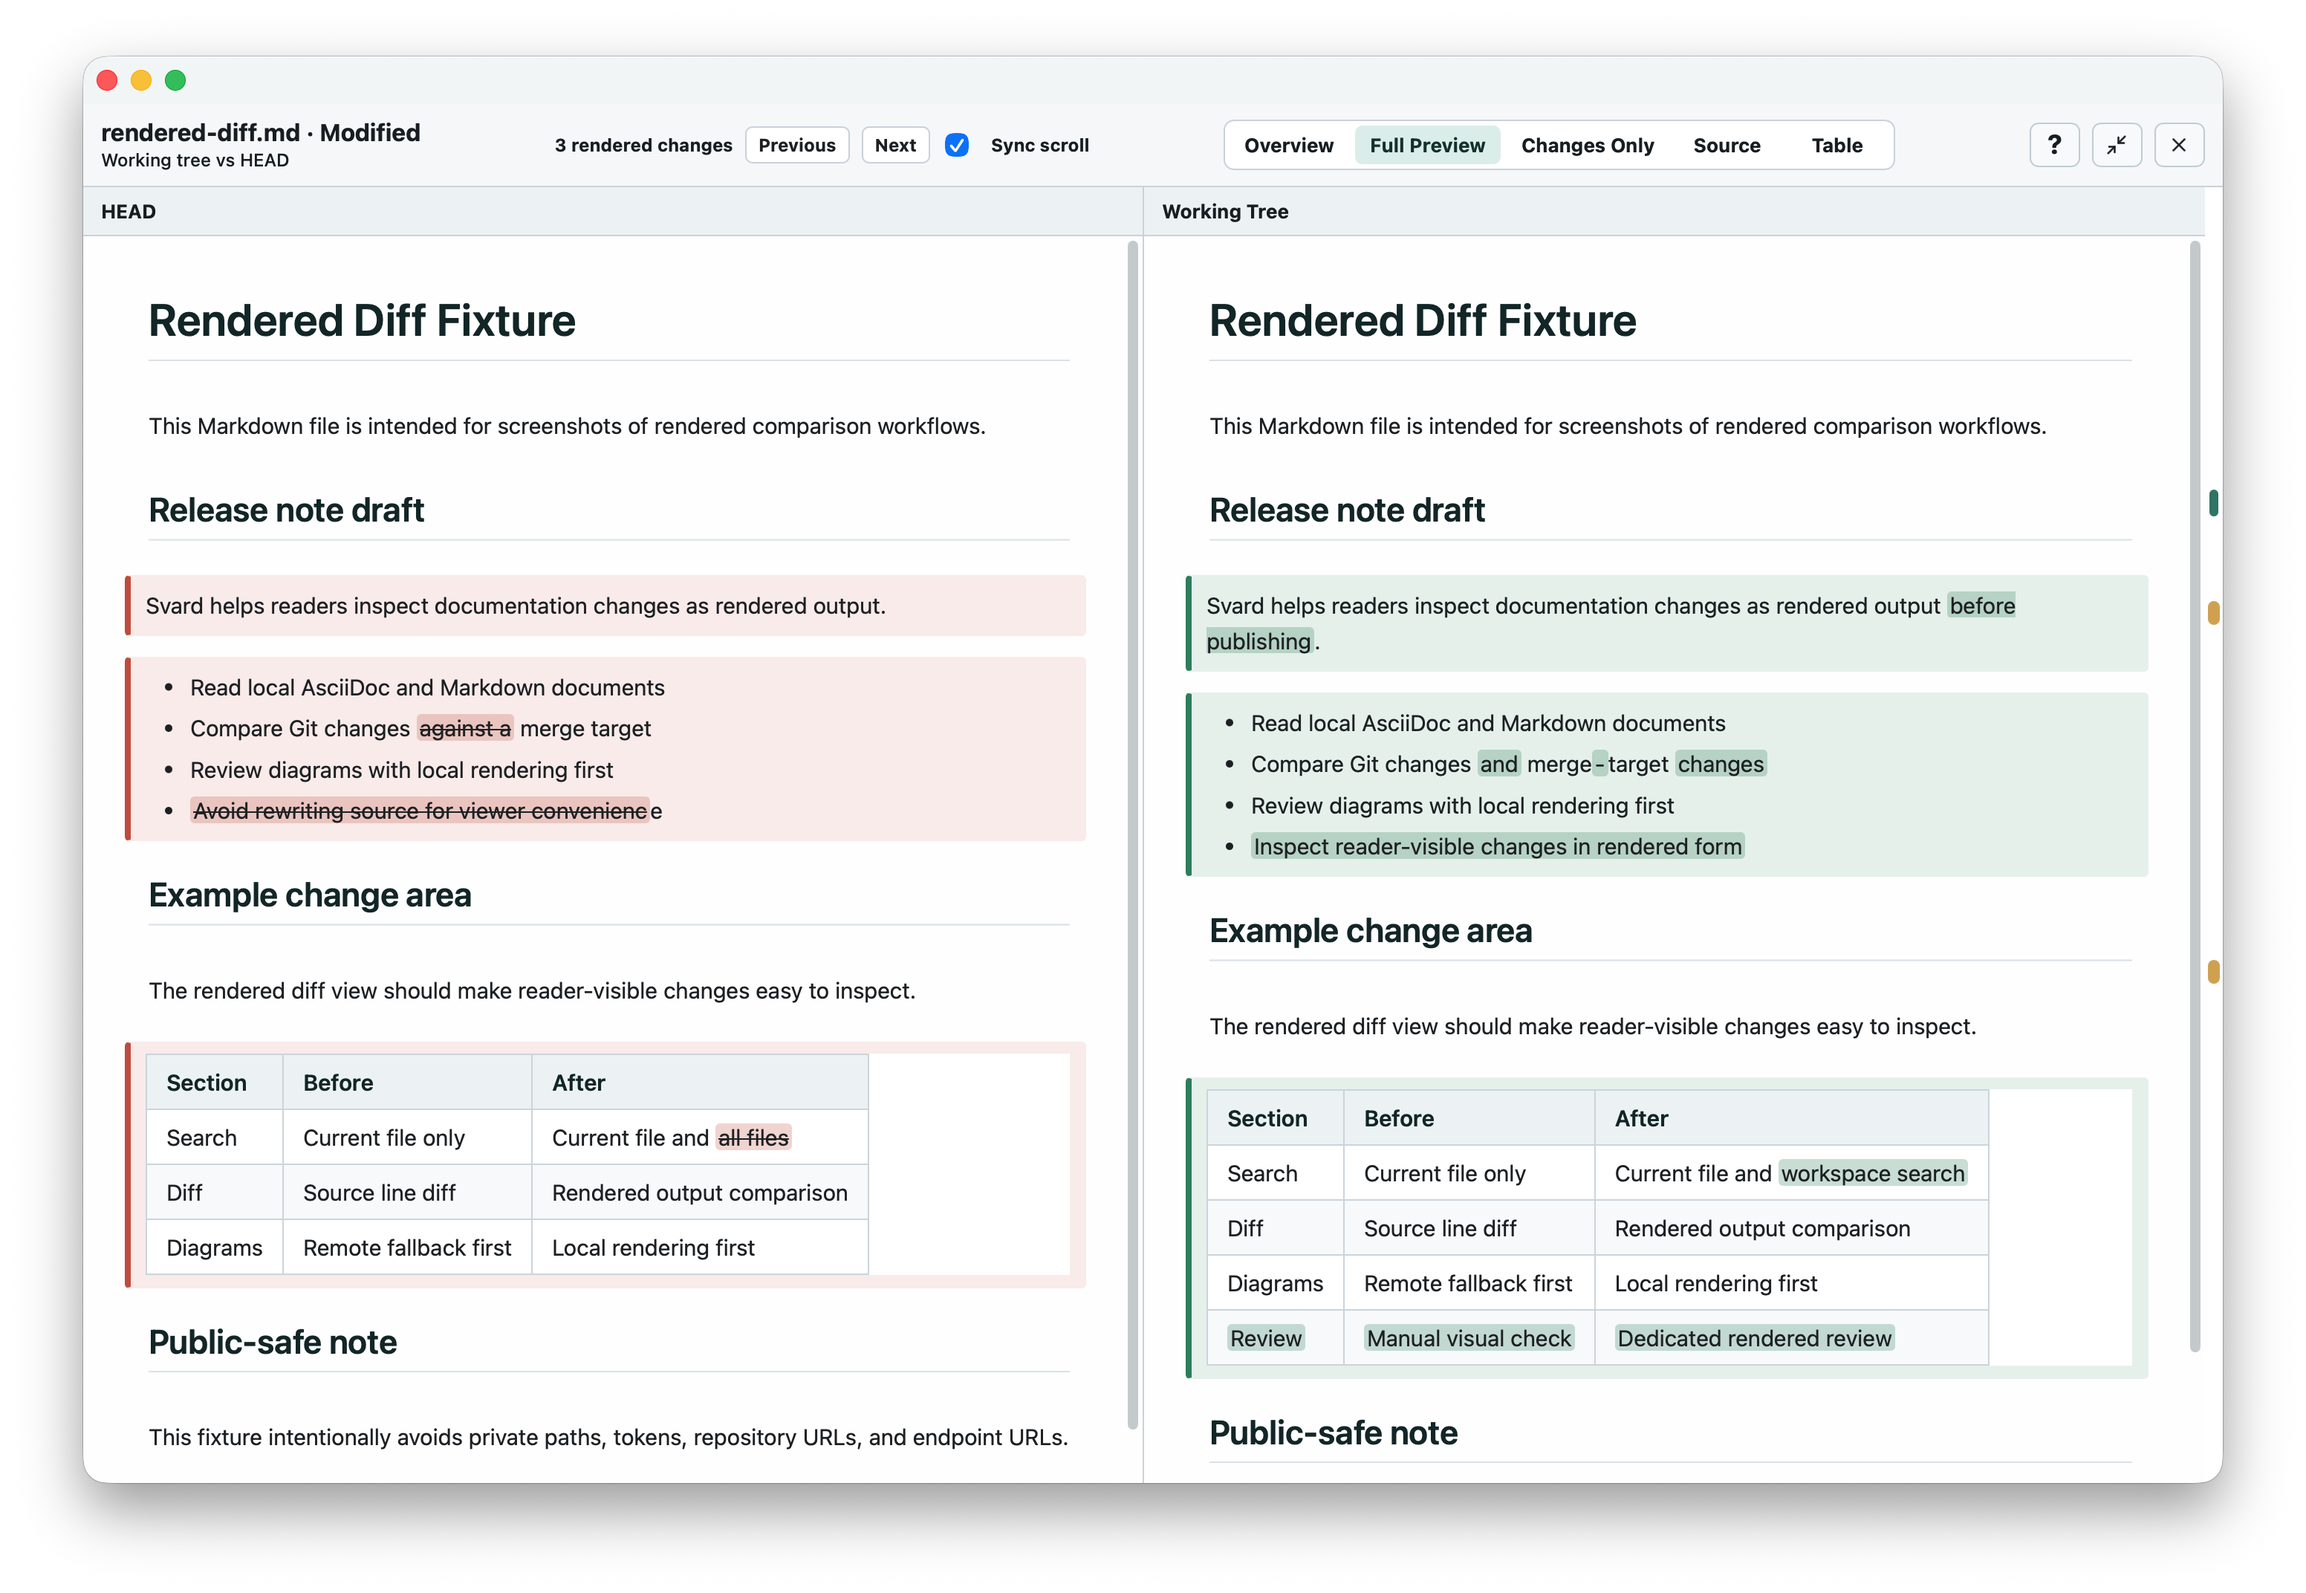
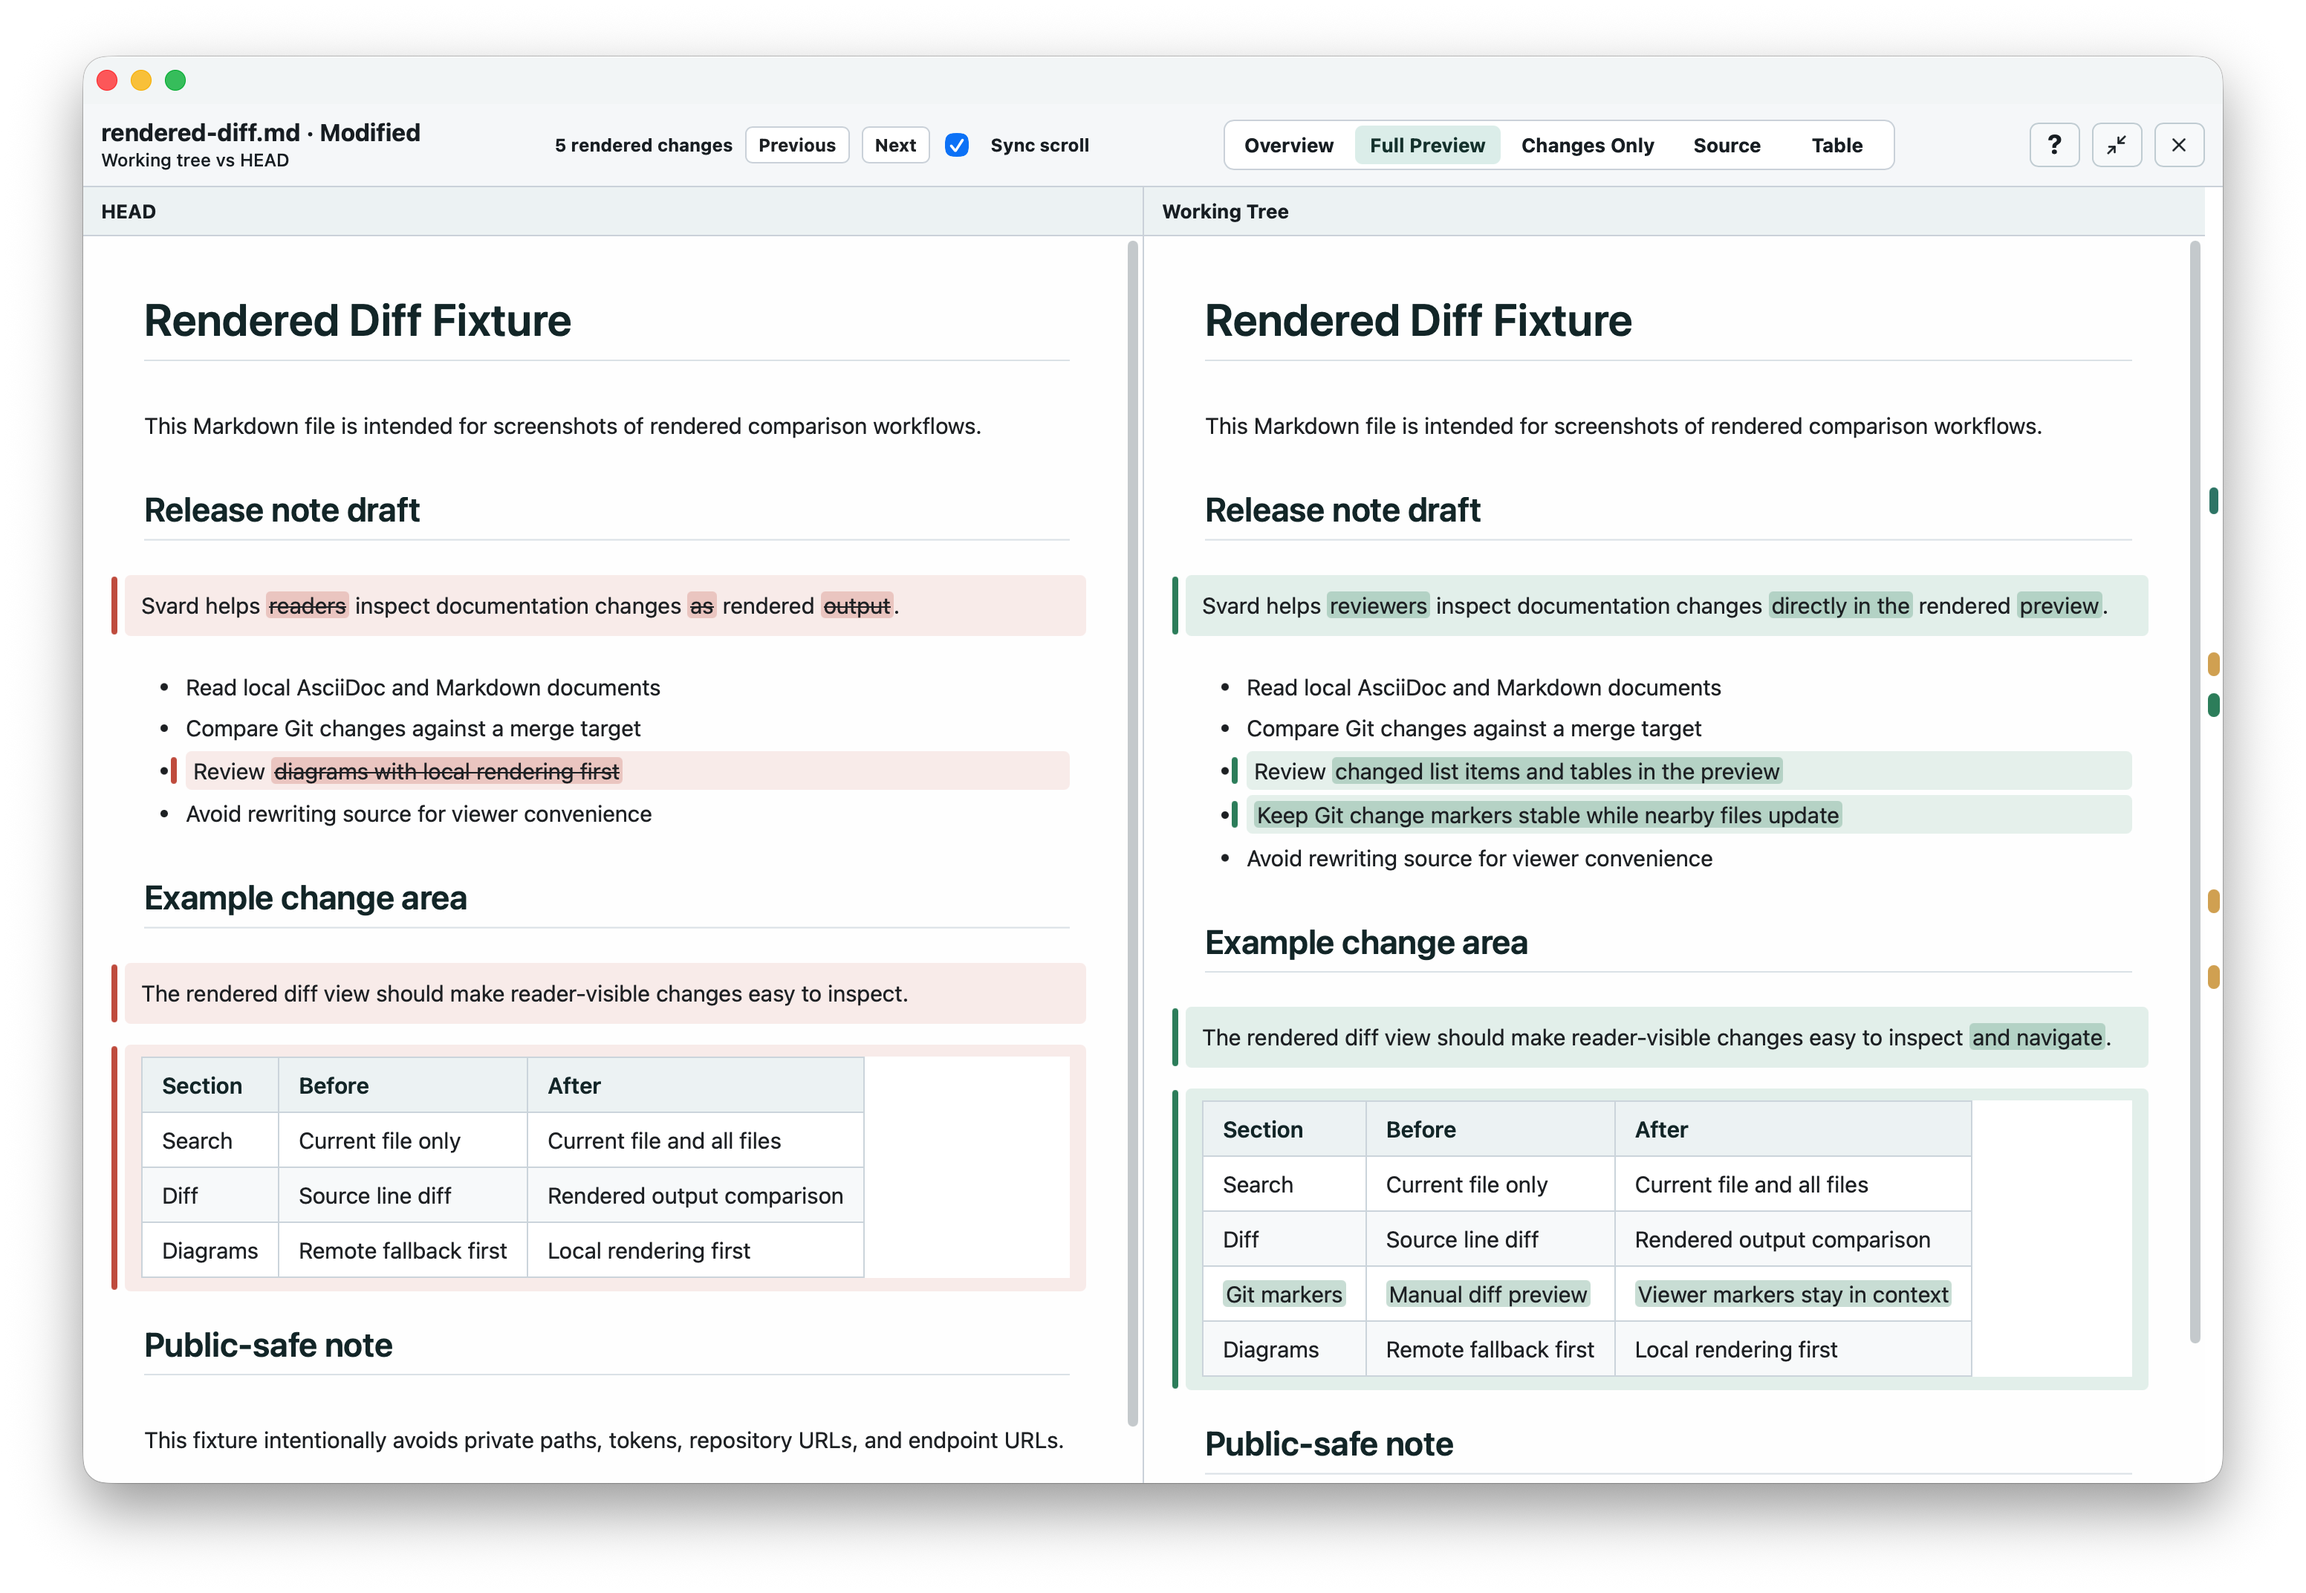
fix(diff): improve list item diff detection and site screenshot

diff --git a/src/ui/lib/gitRenderedDiff/listItemChanges.ts b/src/ui/lib/gitRenderedDiff/listItemChanges.ts
@@ -32,6 +32,7 @@ export function matchRenderedListItemChanges(
   const childChanges: RenderedListItemChildChange[] = [];
   let leftIndex = 0;
   let rightIndex = 0;
+  let matchedBefore = false;
 
   while (leftIndex < leftItems.length || rightIndex < rightItems.length) {
     const left = leftItems[leftIndex];
@@ -40,6 +41,7 @@ export function matchRenderedListItemChanges(
     if (left && right && sameItem(left, right)) {
       leftIndex += 1;
       rightIndex += 1;
+      matchedBefore = true;
       continue;
     }
 
@@ -94,7 +96,16 @@ export function matchRenderedListItemChanges(
         continue;
       }
 
-      if (!isHighConfidenceChangedItem(left, right)) {
+      if (
+        !isHighConfidenceChangedItem(left, right) &&
+        !isAnchoredReplacement({
+          leftItems,
+          rightItems,
+          leftIndex,
+          rightIndex,
+          matchedBefore,
+        })
+      ) {
         return { childChanges: [], fallback: { reason: "low-overlap" } };
       }
       childChanges.push({
@@ -106,10 +117,63 @@ export function matchRenderedListItemChanges(
       });
       leftIndex += 1;
       rightIndex += 1;
+      matchedBefore = true;
     }
   }
 
   return { childChanges };
+}
+
+function isAnchoredReplacement({
+  leftItems,
+  rightItems,
+  leftIndex,
+  rightIndex,
+  matchedBefore,
+}: {
+  leftItems: readonly RenderedListItemSnapshot[];
+  rightItems: readonly RenderedListItemSnapshot[];
+  leftIndex: number;
+  rightIndex: number;
+  matchedBefore: boolean;
+}): boolean {
+  const left = leftItems[leftIndex];
+  const right = rightItems[rightIndex];
+  if (!left || !right) {
+    return false;
+  }
+  if (
+    Math.min(left.textLength, right.textLength) < changedItemMinimumLength
+  ) {
+    return false;
+  }
+  return (
+    (matchedBefore && isEndPair(leftItems, rightItems, leftIndex, rightIndex)) ||
+    hasCommonItemAfter(leftItems, rightItems, leftIndex + 1, rightIndex + 1)
+  );
+}
+
+function isEndPair(
+  leftItems: readonly RenderedListItemSnapshot[],
+  rightItems: readonly RenderedListItemSnapshot[],
+  leftIndex: number,
+  rightIndex: number,
+): boolean {
+  return leftIndex === leftItems.length - 1 && rightIndex === rightItems.length - 1;
+}
+
+function hasCommonItemAfter(
+  leftItems: readonly RenderedListItemSnapshot[],
+  rightItems: readonly RenderedListItemSnapshot[],
+  leftStart: number,
+  rightStart: number,
+): boolean {
+  const rightHashes = new Set(
+    rightItems.slice(rightStart).map((item) => item.normalizedTextHash),
+  );
+  return leftItems
+    .slice(leftStart)
+    .some((item) => rightHashes.has(item.normalizedTextHash));
 }
 
 function hasEmptyItems(items: readonly RenderedListItemSnapshot[]): boolean {

diff --git a/test/unit/gitRenderedDiff.test.ts b/test/unit/gitRenderedDiff.test.ts
@@ -1055,6 +1055,49 @@ make -f Makefile.private mirror-commit</code></pre>
     ]);
   });
 
+  it("keeps item-level changes for low-overlap list item replacements with stable anchors", () => {
+    const [block] = compareRenderedBlocks(
+      extractRenderedBlocksFromHtml(
+        [
+          "<ul>",
+          "<li>Read local AsciiDoc and Markdown documents</li>",
+          "<li>Compare Git changes against a merge target</li>",
+          "<li>Review diagrams with local rendering first</li>",
+          "<li>Avoid rewriting source for viewer convenience</li>",
+          "</ul>",
+        ].join(""),
+      ),
+      extractRenderedBlocksFromHtml(
+        [
+          "<ul>",
+          "<li>Read local AsciiDoc and Markdown documents</li>",
+          "<li>Compare Git changes against a merge target</li>",
+          "<li>Review changed list items and tables in the preview</li>",
+          "<li>Keep Git change markers stable while nearby files update</li>",
+          "<li>Avoid rewriting source for viewer convenience</li>",
+          "</ul>",
+        ].join(""),
+      ),
+    );
+
+    expect(block?.childChanges).toEqual([
+      {
+        kind: "changed",
+        side: "both",
+        confidence: "high",
+        leftIndex: 2,
+        rightIndex: 2,
+      },
+      {
+        kind: "added",
+        side: "right",
+        confidence: "high",
+        rightIndex: 3,
+      },
+    ]);
+    expect(block?.childChangeFallback).toBeUndefined();
+  });
+
   it("falls back instead of producing low-confidence reordered list item changes", () => {
     const [block] = compareRenderedBlocks(
       extractRenderedBlocksFromHtml(
